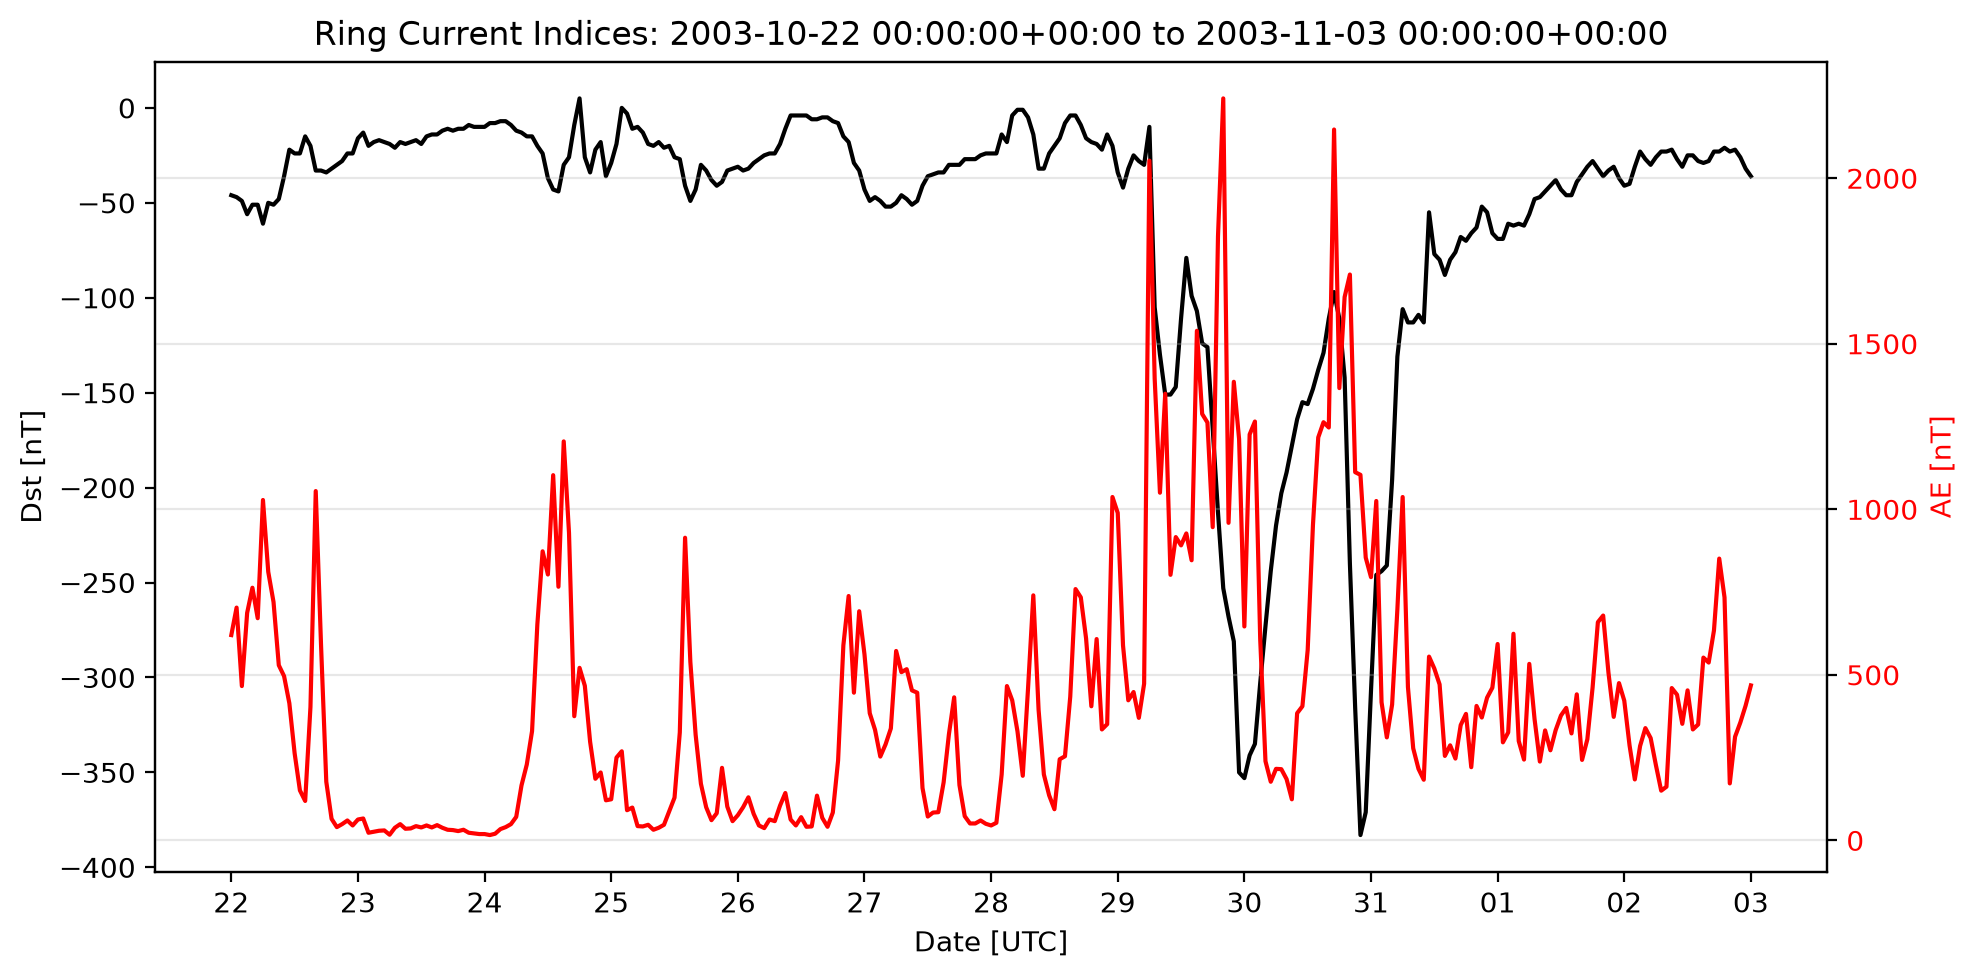
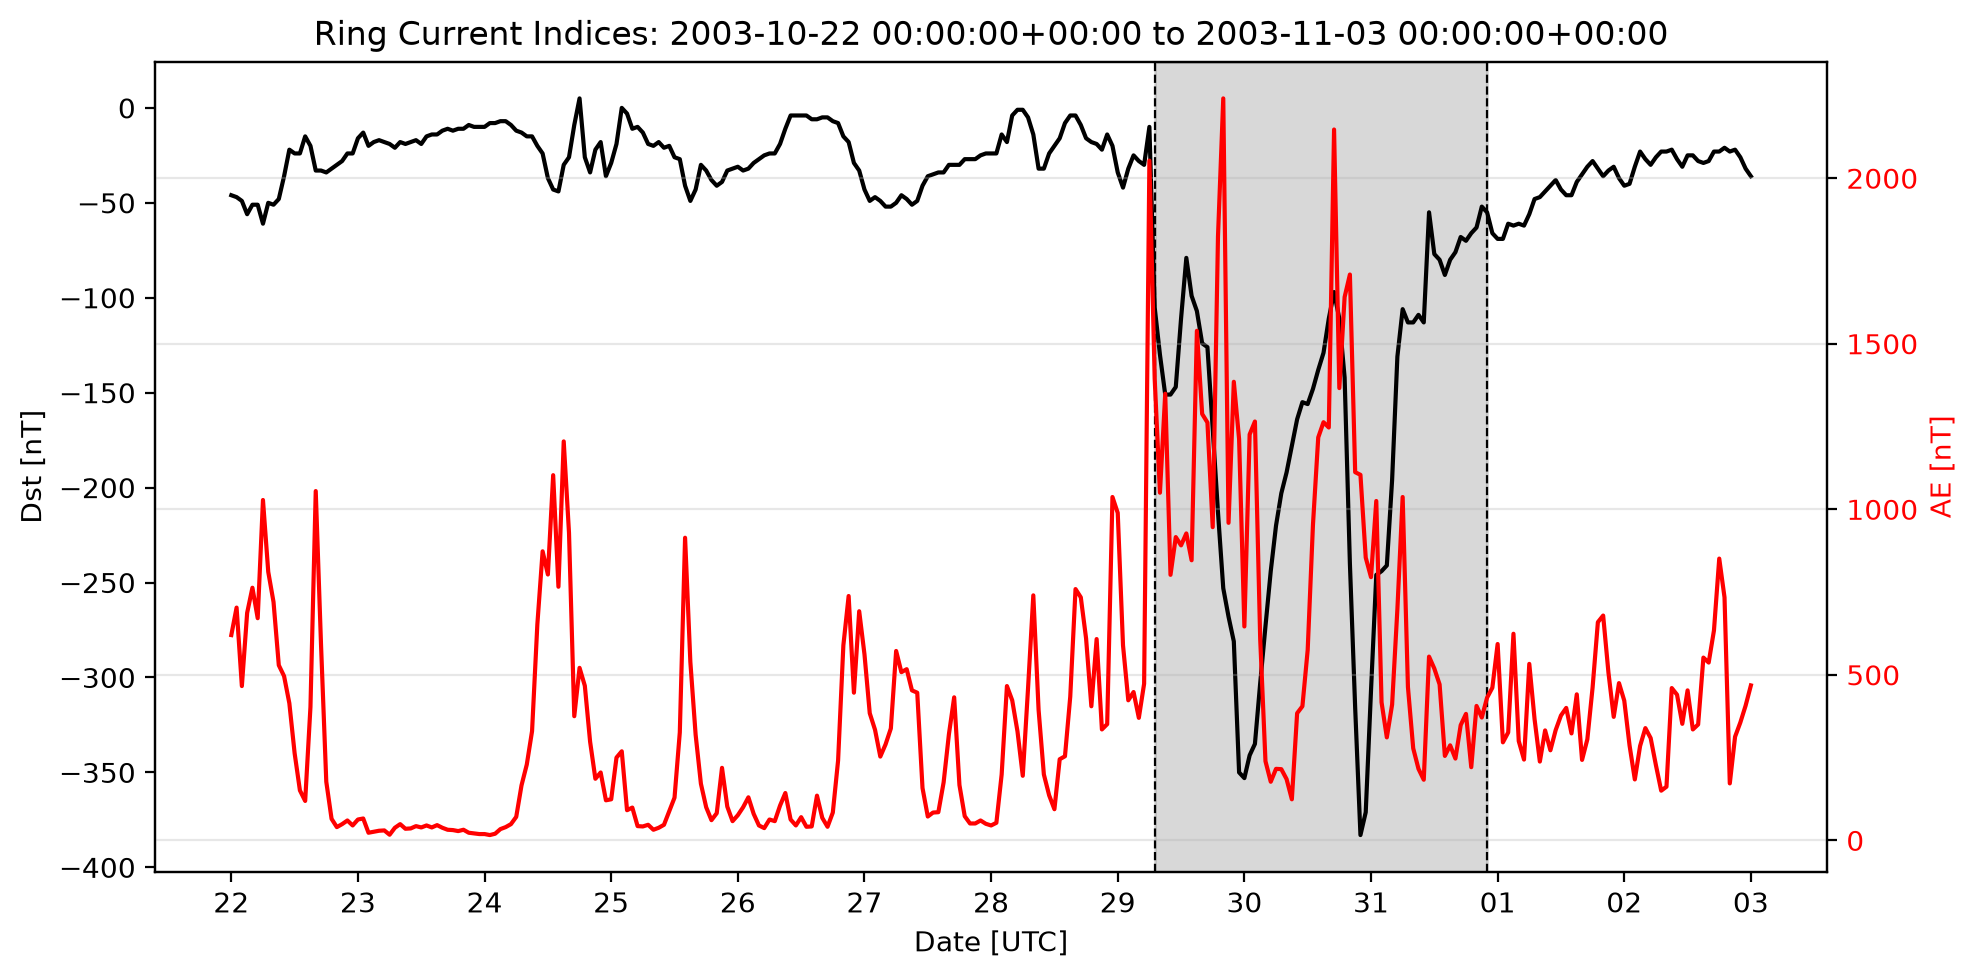
Highlighted storm region on ring current plots
Metric is Dst < -50 nT and three consecutive decreases in Dst for it to be classified a storm, works quite well for this case.

Changed region(s): [[0.5862, 0.0613, 0.7714, 0.8896]]

diff --git a/omni_testing.py b/omni_testing.py
@@ -23,6 +23,7 @@ Notes
 """
 
 from __future__ import annotations
+from operator import index
 
 from cdasws import CdasWs
 import pandas as pd
@@ -56,7 +57,7 @@ REQUESTED_VARS = [
  #   'Vx',
  #   'Vy',
  #   'Vz',
-  #  'SYM_H',
+   # 'SYM_H',
 ]
 
 # Networking robustness settings
@@ -318,18 +319,47 @@ def plot_disturbance(df: pd.DataFrame, output_path: str) -> None: #Plots Kp and 
 
 def plot_ring_currents(df:dataframe, output_path:str) -> None: #plots Dst and AE indices    
     """Create a single plot for ring current indices"""
+
+    ddst = df['DST1800'].diff()
+    cond_threshold = df['DST1800'] <= -50 #dst index must be below -50 nT to be classified as a storm
+
+    cond_decreasing = (
+        (ddst < 0) &
+        (ddst.shift(-1) < 0 ) &
+        (ddst.shift(-2) < 0)
+
+    ) #must have three consecutive decreasing values to be classified as a storm
+
+    storm_mask = df.shift(2).index[cond_threshold & cond_decreasing] #mask for storm period, shifted because otherwise it'll start on the third hour
+    print(storm_mask)
+    print(len(storm_mask))
+    if len(storm_mask) > 0 :
+        storm_start = storm_mask[0]
+        storm_end = storm_mask[-1]
+        print(f'Storm period detected from {storm_start} to {storm_end}')
+
+    elif len(storm_mask) == 0:
+        storm_start = None
+        print('No storm period detected based on the Dst threshold and decreasing condition')
+
+    
+
     fig, ax1 = plt.subplots(figsize=(10, 5))
     
     ax1.set_xlabel('Date [UTC]')
     ax1.set_ylabel('Dst [nT]')
     ax1.plot(df.index, df['DST1800'], label = 'Dst [nT]', color = 'black')
     ax1.tick_params(axis = 'y', labelcolor = 'black')
-        
+    #next three lines mark the start and end of the storm period based on the Dst threshold, Dst<= 50nT
+    ax1.axvline(storm_start, color='black', linestyle='--', linewidth=0.8)
+    ax1.axvline(storm_end, color='black', linestyle='--', linewidth=0.8)
+    ax1.axvspan(storm_start, storm_end, color='gray', alpha=0.3, zorder=0)        
     
     ax2 = ax1.twinx()  # Plot Ap index on the same x-axis but different y-axis, Kp is the logarithmic version of Ap index
     ax2.plot(df.index, df['AE1800'], label = 'AE [nT]', color = 'red')
     ax2.set_ylabel('AE [nT]', color = 'red')
     ax2.tick_params(axis = 'y', labelcolor = 'red')
+    
     
     ax1.xaxis.set_major_locator(mdates.DayLocator(interval=1))
     ax1.xaxis.set_major_formatter(mdates.DateFormatter('%d'))
